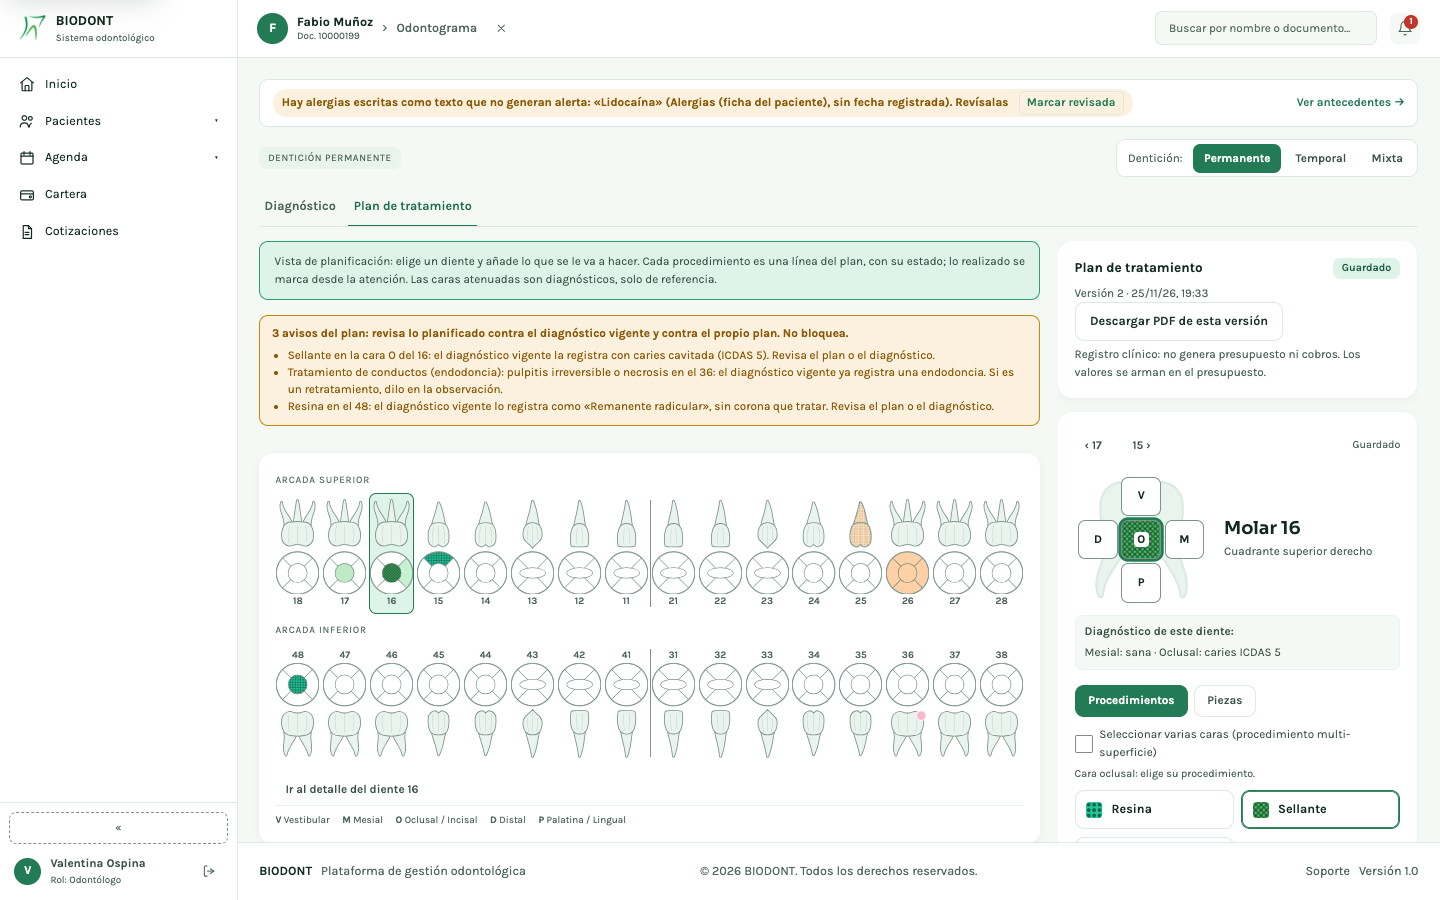
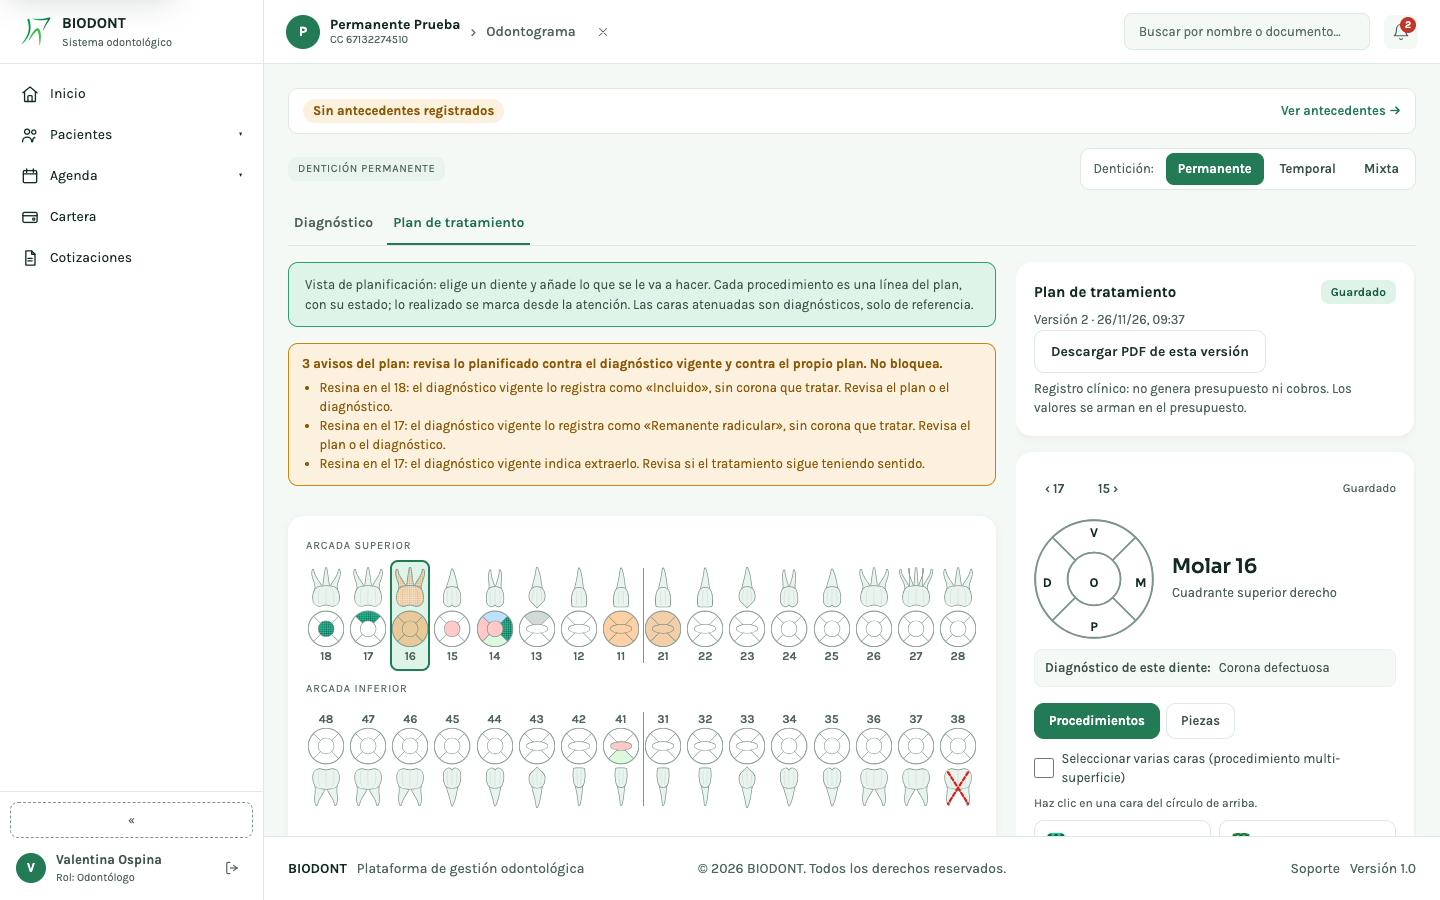
Manual: publicado desde el workspace (2026-11-26)

diff --git a/Manual-Biodont.html b/Manual-Biodont.html
@@ -1211,8 +1211,9 @@ sus rehabilitaciones. Ningún hallazgo es solo un color: cada marca lleva su sig
   <li>Abra el paciente y entre a <b class="btn">Odontograma</b>.</li>
   <li>Elija la <b>dentición</b> arriba a la derecha (permanente, temporal o mixta) antes de
   empezar a marcar.</li>
-  <li>Haga clic en un <b>diente</b>. A la derecha aparece en grande, con su raíz y el círculo de sus caras: la oclusal o incisal
-  (O) en el centro, la vestibular (V) arriba, la palatina o lingual (P) abajo, y la mesial (M) y la distal (D) a los lados. Con
+  <li>Haga clic en un <b>diente</b>. A la derecha aparece en grande, con su raíz y el círculo de sus caras: la oclusal (O) en el centro
+  —en incisivos y caninos se rotula <b>I</b>, incisal—, la vestibular (V) arriba, la palatina (P) abajo —en la arcada inferior se rotula
+  <b>L</b>, lingual—, y la mesial (M) y la distal (D) a los lados. Con
   <b>‹</b> y <b>›</b>, arriba del dibujo, se pasa al diente anterior o al siguiente.</li>
   <li>En <b class="btn">Caras (ICDAS)</b>, haga clic en una cara y registre <b>qué hay en ella</b>
   (primer dígito: sin restauración, sellante, restauración…), su <b>caries</b> (segundo dígito),
@@ -1220,7 +1221,9 @@ sus rehabilitaciones. Ningún hallazgo es solo un color: cada marca lleva su sig
   examinar, márquela como <b>no examinable</b>. Para una restauración que abarca varias caras,
   marque <b>Una sola restauración en varias caras</b>.</li>
   <li>En <b class="btn">Diente completo</b> registre la <b>presencia</b> (presente, o ausente
-  <i>con su causa</i>: por caries, agenesia, no erupcionado…), el <b>número de raíces</b>, el <b>diagnóstico pulpar</b> —uno
+  <i>con su causa</i>: por caries, agenesia, no erupcionado…), la casilla <b>Extracción indicada</b> (debajo de la presencia: se marca
+  aparte, así que un diente puede ser, por ejemplo, temporal persistente, remanente o incluido <i>y</i> tener la extracción indicada;
+  en un diente ausente no se ofrece), el <b>número de raíces</b>, el <b>diagnóstico pulpar</b> —uno
   solo vigente por diente—, el <b>periápice</b>, el tratamiento pulpar que ya tiene y las
   rehabilitaciones (corona, prótesis…).</li>
   <li>Lo marcado se guarda solo a los pocos segundos y aparece abajo, en <b>Registro</b>.</li>
@@ -1251,7 +1254,7 @@ borra nada, sino que avisa «El diente N tiene caras registradas: anúlalas ante
 
 <div class="caja nota">
   <span class="et">El número de raíces decide el código del plan</span>
-  <p>En <b>Diente completo</b>, <b>Número de raíces</b> (una a cuatro, o «Sin registrar») sirve para elegir el CUPS de la
+  <p>En <b>Diente completo</b>, <b>Número de raíces</b> (de una a cinco, o «Sin registrar») sirve para elegir el CUPS de la
   <b>endodoncia</b> y de la <b>exodoncia</b> de ese diente en el plan: con las raíces registradas, el código de la endodoncia
   sale «sugerido» en vez de «por confirmar»; el de la exodoncia, cuando además se elige si es simple o quirúrgica (ver
   <a href="#plan-candidatos">los candidatos CUPS</a>). Regístrelo cuando lo vea en la
@@ -1262,8 +1265,8 @@ borra nada, sino que avisa «El diente N tiene caras registradas: anúlalas ante
 </div>
 
 <figure class="estrecha">
-  <img src="capturas/52-numero-raices.png" alt="Panel Diente completo del molar 36 con el campo Número de raíces en «Dos raíces»">
-  <figcaption>El número de raíces, en <b>Diente completo</b>, debajo de la presencia.</figcaption>
+  <img src="capturas/52-numero-raices.png" alt="Panel Diente completo del molar 27: la presencia, la casilla Extracción indicada y el campo Número de raíces en «Cinco raíces»">
+  <figcaption>En <b>Diente completo</b>: la presencia, la casilla <b>Extracción indicada</b> y el número de raíces (hasta cinco).</figcaption>
 </figure>
 
 <div class="caja nota" id="actividad-apice">
@@ -1292,32 +1295,45 @@ borra nada, sino que avisa «El diente N tiene caras registradas: anúlalas ante
 
 <div class="caja nota" id="leer-el-dibujo">
   <span class="et">Cómo leer el dibujo del diente</span>
-  <p>Cada diente se dibuja en dos partes: arriba (o abajo, en la arcada inferior) el <b>diente con su corona y su raíz</b>, con tantas
-  raíces como suele tener ese diente, y junto a él el <b>círculo de sus caras</b>, donde se pintan los hallazgos de cada cara. El dibujo es
-  el mismo en la pantalla y en el PDF.</p>
-  <p>Debajo de la rejilla, la <b>leyenda</b> nombra cada marca con su color, el patrón dicho con palabras, dónde va
-  y cómo se ve, así que se entiende también impresa en gris. Hay tres clases de marca, además de la cruz del diente ausente:</p>
+  <p>Cada diente se dibuja en dos partes: arriba (o abajo, en la arcada inferior) el <b>diente con su corona y su raíz</b>, y junto a él
+  el <b>círculo de sus caras</b>, donde se pintan los hallazgos de cada cara. Cada pieza tiene su forma: los incisivos inferiores son más
+  estrechos que los superiores y los dientes temporales tienen la corona más baja y las raíces cortas. Se dibujan las raíces que se
+  registraron en <b>Número de raíces</b> (hasta cinco) o, si no se registraron, las habituales de la pieza (tres en los molares superiores,
+  dos en los inferiores y en el 14 y el 24, una en los demás). El dibujo es el mismo en la pantalla y en el PDF, y es solo presentación: no
+  cambia lo registrado. Está pendiente de la validación clínica del consultorio.</p>
+  <p><b>Cada estado del diente tiene su forma</b>, no solo su color:</p>
   <ul>
-    <li><b>Relleno de la cara</b>: el estado de cada cara. Caries y restauración con caries, relleno macizo; sellante,
-    rayas cruzadas; restauración, rayas diagonales /; restauración perdida, fracturada o temporal, y fractura, desgaste o
-    fisura, rayas diagonales \; sana (ICDAS 00), puntos; no examinable (ICDAS 96), rayas horizontales. La <b>corona</b> pinta
-    todas las caras que cubre con <b>rayas verticales</b>, igual que en el PDF.</li>
-    <li><b>Silueta del diente rellena</b>: la corona, el implante y las piezas de una prótesis rellenan la silueta entera del
-    diente, cada una con su color. Por eso la corona sale dos veces en la leyenda: una por sus caras (rayas verticales) y
-    otra por la silueta. Si la rehabilitación es defectuosa o temporal, el contorno del diente se dibuja en rojo y
-    discontinuo.</li>
-    <li><b>Dibujo en la raíz</b>: el tratamiento pulpar se dibuja dentro del diente, y la forma dice cuál es. La
-    <b>endodoncia</b> es la cámara y el conducto completo con trazo continuo; la <b>pulpectomía</b>, la cámara y el conducto
-    completo con trazo discontinuo; la <b>pulpotomía</b>, solo la cámara.</li>
+    <li><b>Ausente</b>: el diente en gris claro con un aspa encima (fina, si lo reemplaza un implante o un mantenedor). <b>Agenesia</b>
+    (no se formó): un círculo vacío donde iría la corona, sin diente dibujado.</li>
+    <li><b>Incluido, impactado, no erupcionado o retenido</b>: el diente punteado y sin relleno (el sistema no dibuja su posición).
+    <b>Semi-impactado</b>: el cuello del diente punteado y grueso. <b>Temporal persistente</b>: la corona con un contorno doble.</li>
+    <li><b>Remanente radicular</b>: solo la raíz, en tono de aviso, con el cuello discontinuo.</li>
+    <li><b>Extracción indicada</b>: un aspa roja discontinua sobre el diente.</li>
+    <li><b>Corona</b>: rellena solo la corona (temporal, con guiones; defectuosa, con anillos y el contorno rojo discontinuo). <b>Implante</b>:
+    un tornillo en lugar de la raíz. <b>Puente</b>: una barra a la altura de las coronas que une sus dientes; el póntico no tiene raíz.
+    <b>Prótesis parcial o total</b>: una base bajo las coronas; los dientes repuestos no tienen raíz. <b>Mantenedor de espacio</b>: un ansa
+    sobre el hueco.</li>
+    <li><b>Tratamiento pulpar</b>, en la raíz: la <b>endodoncia</b> contornea la raíz con trazo continuo; la <b>pulpectomía</b>, con trazo
+    discontinuo; la <b>pulpotomía</b> es solo la cámara.</li>
   </ul>
-  <p>Un diente ausente lleva una cruz encima. La leyenda de diente completo solo muestra las marcas que tiene el paciente:
-  explica lo que se ve, no el catálogo entero.</p>
+  <p><b>Las caras</b> llevan el relleno de su estado y un <b>borde de su mismo tono</b>: caries extensa o sin clasificar (segundo dígito ICDAS 5
+  o 6) y restauración con caries, relleno macizo; <b>caries moderada</b> (3 o 4), rayas del color de la caries sobre la cara blanca; <b>caries
+  inicial</b> (1 o 2), la cara blanca con un borde grueso y discontinuo; sellante, rayas cruzadas; restauración, rayas diagonales /;
+  restauración perdida, fracturada o temporal, y fractura, desgaste o fisura, rayas diagonales \; sana (código 00), puntos; no examinable
+  (código 96), rayas horizontales. La <b>corona</b> pinta todas las caras que cubre con rayas verticales (guiones si es temporal, anillos si
+  es defectuosa), igual que en el PDF. En la tabla y al pasar por una cara, el código ICDAS dice qué es cada dígito: el primero, la
+  restauración; el segundo, la caries.</p>
+  <p>Debajo de la rejilla, la <b>leyenda</b> nombra cada marca con su color, el patrón dicho con palabras, dónde va y cómo se ve, así que se
+  entiende también impresa en gris. Solo muestra las marcas que tiene el paciente: explica lo que se ve, no el catálogo entero. Con el
+  tema de <b>contraste alto</b> los colores de las caras son más intensos y los bordes, oscuros.</p>
 </div>
 
 <figure>
-  <img src="capturas/53-leyenda.png" alt="Rejilla del odontograma con agenesia en el 18, sellante en el 17, caries y cara sana en el 16, una corona temporal en el 26, un implante en el 46 y una endodoncia en el 36, y la leyenda debajo">
-  <figcaption>La corona del 26 rellena la silueta y raya sus caras, con el contorno rojo discontinuo por ser temporal; la endodoncia
-  del 36 se dibuja en la raíz; el 18 y el 46 llevan la cruz de ausente. La leyenda dice, para cada marca, dónde va, cómo se ve y su patrón.</figcaption>
+  <img src="capturas/53-leyenda.png" alt="Rejilla del odontograma con un incluido punteado en el 18, un remanente con extracción indicada en el 17, agenesia en el 12, un puente del 24 al 26, una endodoncia de cinco raíces en el 27, un implante en el 36, una prótesis parcial en el 34 y el 35, y la leyenda debajo">
+  <figcaption>Una forma por estado: el 18 incluido, punteado; el 17 remanente con la extracción indicada; el 12, agenesia; la corona
+  defectuosa del 16; el puente del 24 al 26 con su barra y el póntico sin raíz; la endodoncia del 27 (cinco raíces) contorneando la
+  raíz; el implante del 36; la prótesis del 34 y el 35 con su base; y en el 14 los tres niveles de la caries. La leyenda dice, para cada
+  marca, dónde va, cómo se ve y su patrón.</figcaption>
 </figure>
 
 <div class="caja aviso">
@@ -1340,9 +1356,10 @@ estado. Para poner el CUPS no hace falta saberse el código: al entrar en el cam
 hacer no se confundan.</p>
 
 <figure>
-  <img src="capturas/30-odontograma-plan.png" alt="Pestaña Plan de tratamiento con tres avisos del plan arriba, el diente 16 elegido y, a la derecha, la franja Diagnóstico de este diente con la caries de la cara oclusal">
+  <img src="capturas/30-odontograma-plan.png" alt="Pestaña Plan de tratamiento con tres avisos del plan arriba, el diente 16 elegido y, a la derecha, el círculo de sus caras y la franja Diagnóstico de este diente: corona defectuosa">
   <figcaption>El plan: arriba, los avisos del plan; a la derecha, el diente elegido con la franja <b>Diagnóstico de este diente</b> y los
-  procedimientos que se le pueden añadir. Las caras atenuadas de la cuadrícula son el diagnóstico, de referencia.</figcaption>
+  procedimientos que se le pueden añadir; las caras se eligen en el <b>mismo círculo</b> que en el diagnóstico. Las caras atenuadas de la
+  cuadrícula son el diagnóstico, de referencia.</figcaption>
 </figure>
 
 <div class="caja nota" id="plan-diagnostico">
@@ -1560,8 +1577,9 @@ cirugía, el de la exodoncia. Una línea ya realizada muestra estos datos como t
   cuántos dientes se calcularon. Las caries sin clasificar su severidad no entran, y el bloque lo avisa. Cómo cuenta cada caso:
     <ul>
       <li>La <b>caries de raíz con cavidad</b> cuenta como cariado (C); la lesión inicial de raíz, no.</li>
-      <li>La <b>extracción indicada</b> se registra también en dientes permanentes y cuenta como cariado (C); en temporales es la «e».
-      Se dibuja con la misma aspa discontinua.</li>
+      <li>La <b>extracción indicada</b> (la casilla del diente) se registra también en dientes permanentes y cuenta como cariado (C); en
+      temporales es la «e». Se dibuja con un aspa discontinua. Si el diente además consta incluido, impactado, no erupcionado o retenido,
+      queda fuera del índice, como cualquier diente que no erupcionó; un temporal remanente con la extracción indicada cuenta «e».</li>
       <li>Un temporal <b>ausente por caries</b> cuenta como «e».</li>
       <li>La corona temporal y la corona defectuosa cuentan como obturadas (O), y un diente con tratamiento pulpar sin restauración
       registrada, como sano. El bloque lo dice debajo de la tabla cuando el paciente tiene alguno.</li>
